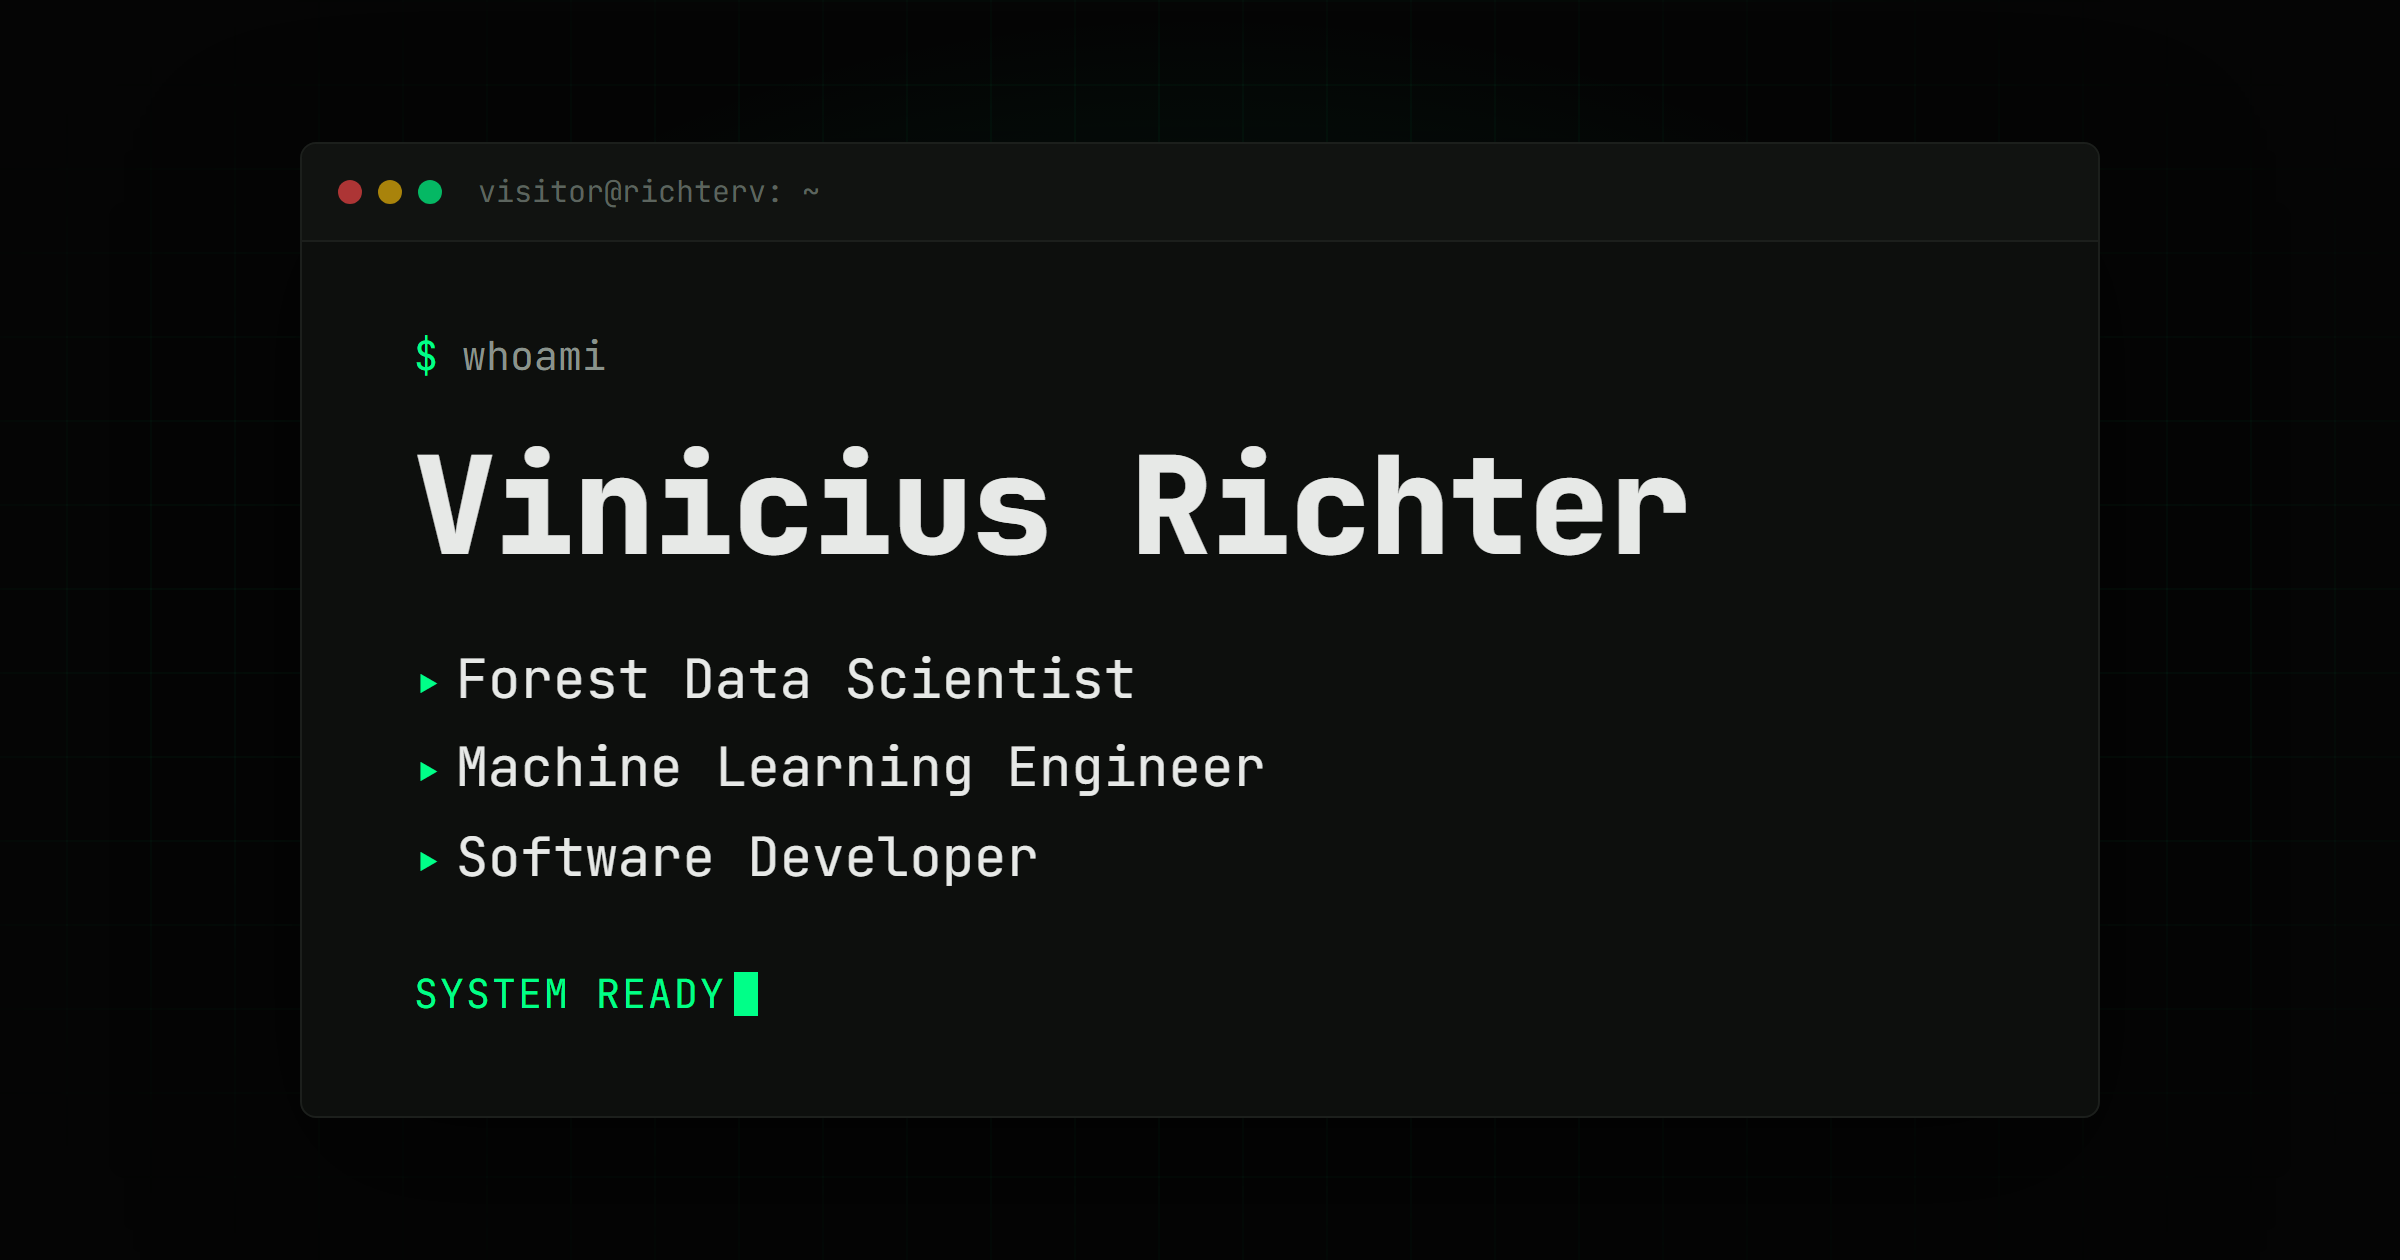
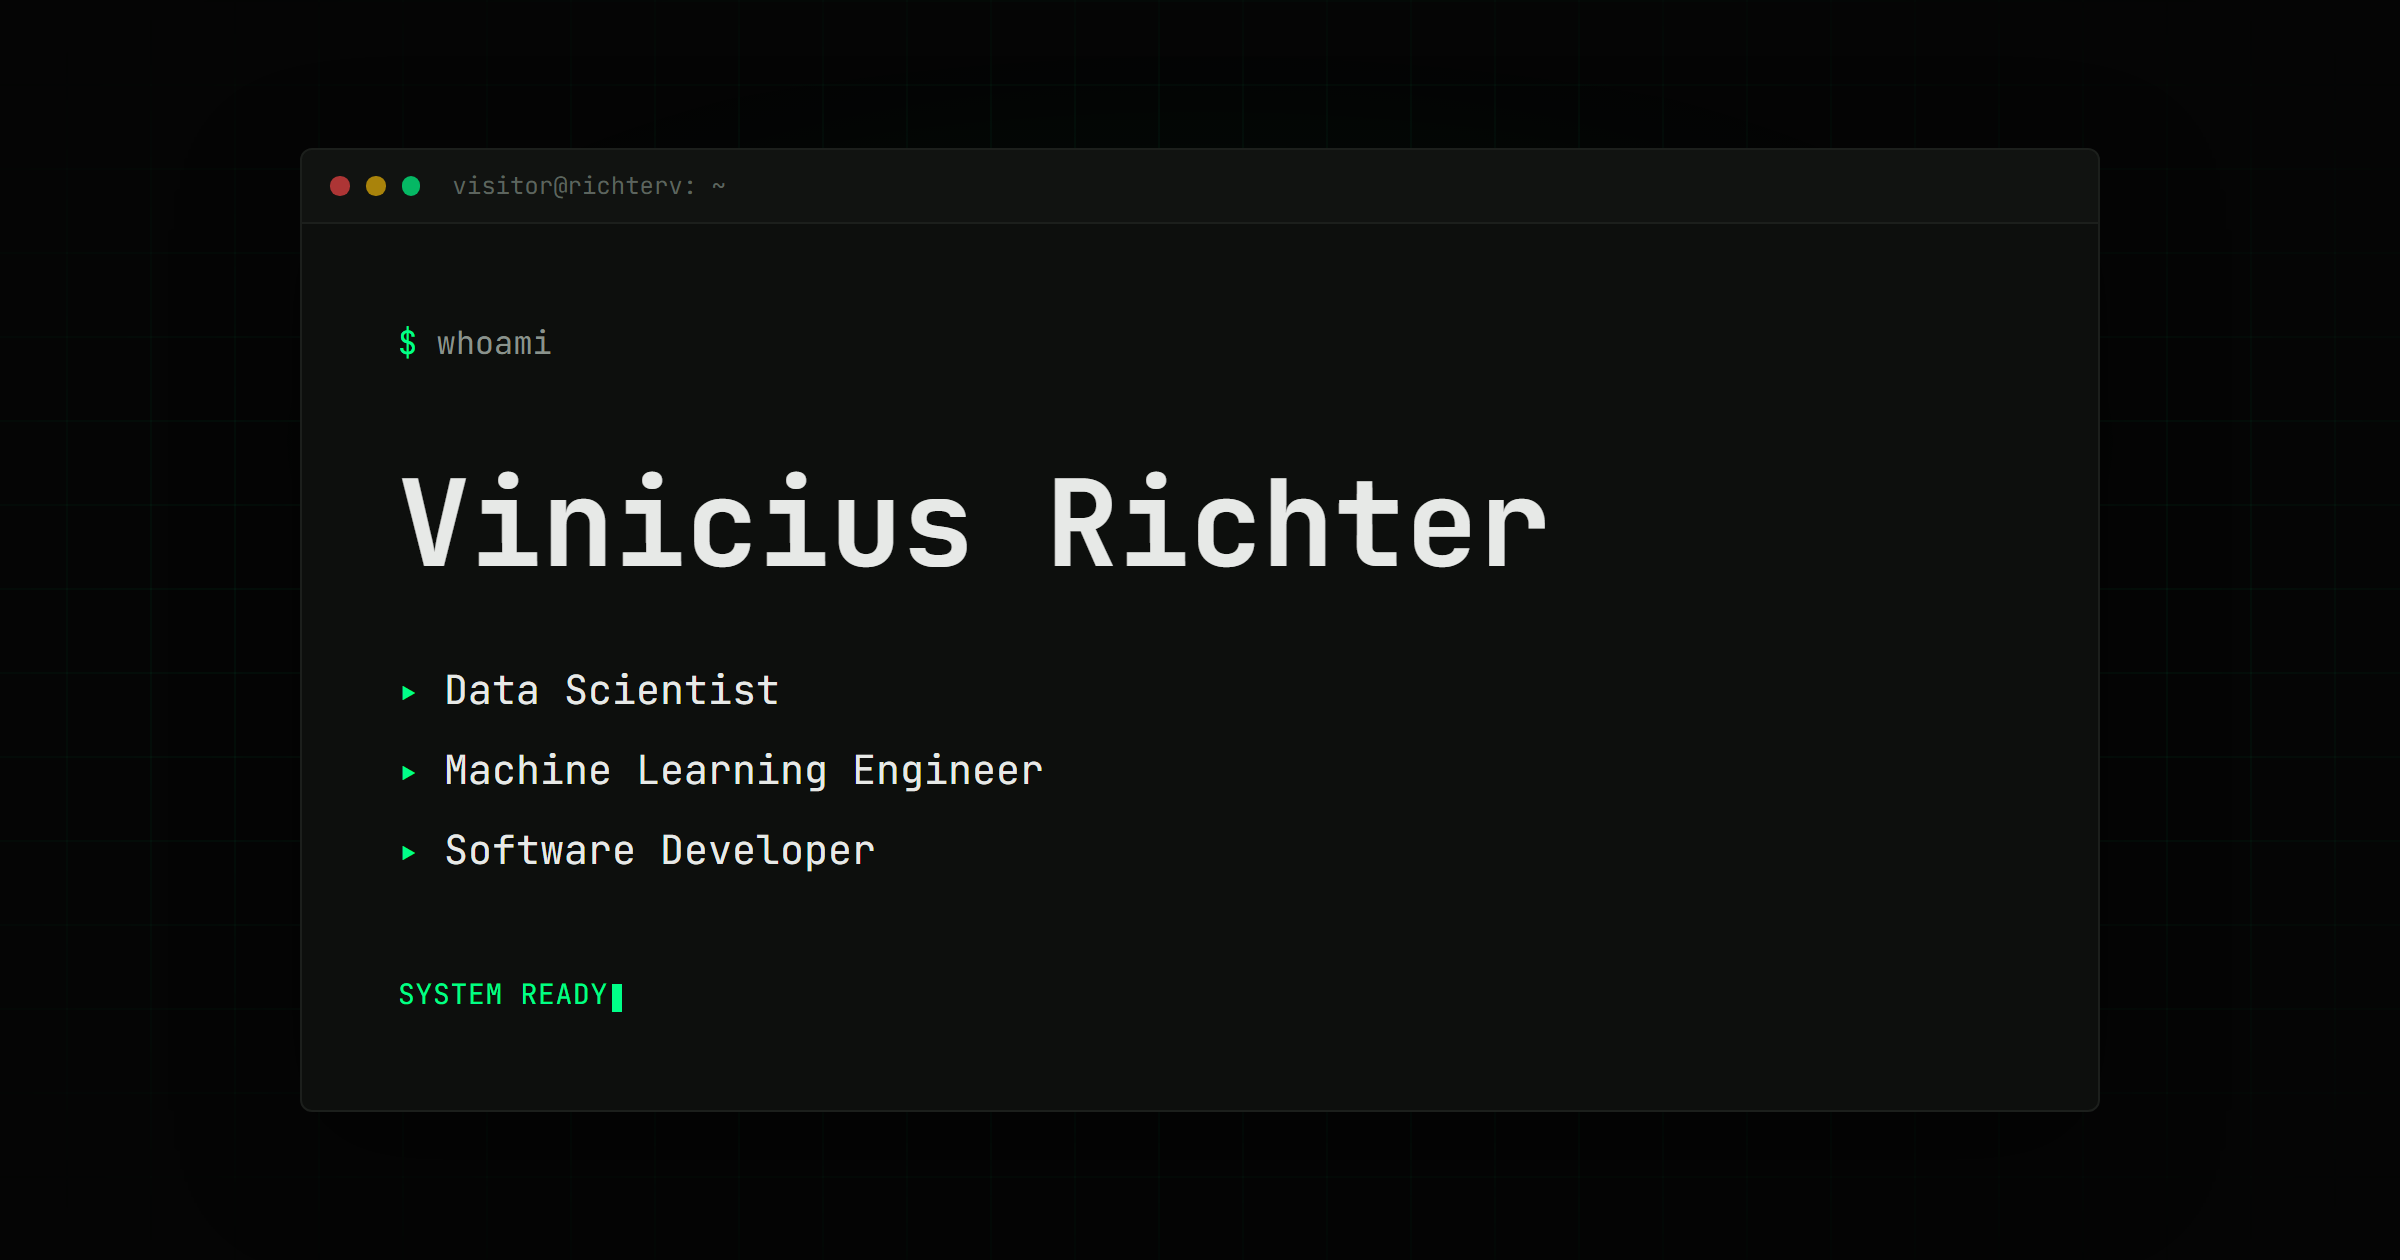
atualizações 2026-08-25

diff --git a/main.js b/main.js
@@ -75,7 +75,7 @@ function initProjectsCarousel() {
   const nextBtn = document.getElementById('projects-next');
   const dotsWrapper = document.getElementById('projects-dots-wrapper');
   const dotsContainer = document.getElementById('projects-dots');
-  if (!viewport || !track || !prevBtn || !nextBtn || !dotsWrapper || !dotsContainer) return;
+  if (!track || !prevBtn || !nextBtn || !dotsWrapper || !dotsContainer) return;
 
   const firstPage = track.firstElementChild;
   if (!firstPage) return;
@@ -92,7 +92,7 @@ function initProjectsCarousel() {
   track.innerHTML = '';
   pageGroups.forEach(group => {
     const pageDiv = document.createElement('div');
-    pageDiv.className = 'grid content-start grid-cols-1 md:grid-cols-2 lg:grid-cols-3 gap-6 w-full flex-shrink-0 px-2';
+    pageDiv.className = 'grid content-center grid-cols-1 md:grid-cols-2 lg:grid-cols-3 gap-6 w-full flex-shrink-0 px-2';
     group.forEach(card => pageDiv.appendChild(card));
     track.appendChild(pageDiv);
   });
@@ -113,20 +113,8 @@ function initProjectsCarousel() {
   const AUTOPLAY_DELAY = 4000;
   const SCROLL_IDLE_DELAY = 700;
 
-  // Cada página pode ter uma altura diferente (ex: última página com menos
-  // cards, ou grid de 1 coluna no mobile). Sem isso, o viewport ficava
-  // travado na altura da página mais alta e as páginas menores pareciam
-  // "vazias" ao navegar pelo carrossel.
-  function updatePageHeight() {
-    const activePage = track.children[currentPage];
-    if (activePage) {
-      viewport.style.height = `${activePage.offsetHeight}px`;
-    }
-  }
-
   function updateUI() {
     track.style.transform = `translateX(-${currentPage * 100}%)`;
-    updatePageHeight();
     Array.from(dotsContainer.children).forEach((dot, idx) => {
       dot.classList.toggle('bg-term-green', idx === currentPage);
       dot.classList.toggle('bg-term-border', idx !== currentPage);
@@ -174,6 +162,38 @@ function initProjectsCarousel() {
   prevBtn.addEventListener('click', () => goToPage(currentPage - 1));
   nextBtn.addEventListener('click', () => goToPage(currentPage + 1));
 
+  // Arrastar (swipe) no mobile faz o mesmo que os botões prev/next.
+  if (viewport) {
+    const SWIPE_THRESHOLD = 40;
+    let touchStartX = 0;
+    let touchStartY = 0;
+    let touchDeltaX = 0;
+    let touchDeltaY = 0;
+
+    viewport.addEventListener('touchstart', (e) => {
+      const touch = e.touches[0];
+      touchStartX = touch.clientX;
+      touchStartY = touch.clientY;
+      touchDeltaX = 0;
+      touchDeltaY = 0;
+      stopAutoplay();
+      cancelScheduledAutoplay();
+    }, { passive: true });
+
+    viewport.addEventListener('touchmove', (e) => {
+      const touch = e.touches[0];
+      touchDeltaX = touch.clientX - touchStartX;
+      touchDeltaY = touch.clientY - touchStartY;
+    }, { passive: true });
+
+    viewport.addEventListener('touchend', () => {
+      if (Math.abs(touchDeltaX) > SWIPE_THRESHOLD && Math.abs(touchDeltaX) > Math.abs(touchDeltaY)) {
+        goToPage(touchDeltaX < 0 ? currentPage + 1 : currentPage - 1);
+      }
+      if (sectionInView) scheduleAutoplayStart();
+    });
+  }
+
   track.querySelectorAll('.card-hover').forEach(card => {
     card.addEventListener('mouseenter', stopAutoplay);
     card.addEventListener('mouseleave', startAutoplay);
@@ -216,23 +236,17 @@ function initProjectsCarousel() {
 
   updateUI();
 
-  // Recalcula a altura da página ativa quando o layout muda de coluna
-  // (ex: rotação de tela ou redimensionamento da janela).
-  window.addEventListener('resize', updatePageHeight);
-
   // Só inicia o autoplay quando o usuário parar de rolar dentro da seção de
   // projetos, e sempre volta para a primeira página ao entrar/sair dela.
   // Assim, ao rolar rapidamente até "projects", o usuário sempre vê os
   // 6 projetos da primeira página em vez de cair em uma página intermediária.
   if (projectsSection) {
-    // Só reseta a página ao cruzar a fronteira de entrar/sair da seção.
-    // Sem isso, o próprio redimensionamento do carrossel (updatePageHeight)
-    // pode reacionar o observer enquanto a seção continua visível, forçando
-    // a página de volta pra 1 logo após o usuário clicar em "next".
+    // Só reseta a página ao cruzar a fronteira de entrar/sair da seção
+    // (evita resets redundantes se o observer disparar mais de uma vez
+    // seguida com o mesmo estado).
     let wasInView = false;
     const sectionObserver = new IntersectionObserver((entries) => {
       entries.forEach(entry => {
-        console.log('DEBUG observer', entry.isIntersecting, entry.intersectionRatio, entry.boundingClientRect.top, entry.boundingClientRect.height);
         if (entry.isIntersecting) {
           sectionInView = true;
           if (!wasInView) resetToFirstPage();

diff --git a/cartao_visita.html b/cartao_visita.html
@@ -1,0 +1,88 @@
+<!DOCTYPE html>
+<html lang="pt-br">
+<head>
+<meta charset="UTF-8">
+<title>cartao_visita source (OG image mockup PT-BR)</title>
+<!--
+  Fonte editável de assets/images/cartao_visita.png.
+  Para gerar a imagem: abra este arquivo num browser headless (Playwright)
+  com viewport 1200x630 e deviceScaleFactor 2, e tire um screenshot.
+  Reutiliza as mesmas classes/paleta de style.css (term-window, term-dot, etc).
+-->
+<link rel="preconnect" href="https://fonts.googleapis.com">
+<link rel="preconnect" href="https://fonts.gstatic.com" crossorigin>
+<link href="https://fonts.googleapis.com/css2?family=JetBrains+Mono:wght@400;500;600;700;800&display=swap" rel="stylesheet">
+<script src="https://cdn.tailwindcss.com"></script>
+<script>
+  tailwind.config = {
+    theme: {
+      extend: {
+        colors: {
+          term: {
+            bg: '#050505', bg2: '#0a0a0a', panel: '#0d0f0d',
+            border: '#1c1f1c', border2: '#2a2f2a',
+            green: '#00ff88', dim: '#00cc6d',
+            text: '#e7e9e7', muted: '#8a938c', faint: '#5c645e',
+          },
+        },
+        fontFamily: {
+          mono: ['"JetBrains Mono"', '"Fira Code"', 'ui-monospace', 'SFMono-Regular', 'Menlo', 'Consolas', 'monospace'],
+        },
+      },
+    },
+  };
+</script>
+<link rel="stylesheet" href="style.css">
+<style>
+  html, body { margin: 0; padding: 0; }
+  body {
+    width: 1200px;
+    height: 630px;
+    overflow: hidden;
+    display: flex;
+    align-items: center;
+    justify-content: center;
+    position: relative;
+  }
+  .canvas-grid {
+    position: absolute;
+    inset: 0;
+  }
+  .term-cursor { animation: none !important; opacity: 1 !important; }
+  .boot-fade { opacity: 1 !important; transform: none !important; animation: none !important; }
+  .term-typed-whoami { width: 6ch !important; animation: none !important; }
+</style>
+</head>
+<body class="font-mono bg-term-bg text-term-text">
+  <div class="canvas-grid term-grid-bg term-hero-glow"></div>
+  <div class="relative z-10" style="width: 900px;">
+    <div class="term-window">
+      <div class="term-titlebar">
+        <span class="term-dot bg-red-500/70"></span>
+        <span class="term-dot bg-yellow-500/70"></span>
+        <span class="term-dot bg-term-green/70"></span>
+        <span class="ml-2 text-xs text-term-faint font-mono truncate" id="titlebar-text">visitante@richterv: ~</span>
+      </div>
+      <div class="p-12">
+        <p class="font-mono text-base text-term-muted mb-10">
+          <span class="text-term-green">$</span> <span class="term-typed-whoami">whoami</span>
+        </p>
+
+        <h1 class="boot-fade d2 font-mono text-6xl font-bold text-term-text mb-8 leading-tight" id="name">
+          Vinicius Richter
+        </h1>
+
+        <div class="boot-fade d3 font-mono text-xl text-term-text mb-12 space-y-3" id="roles">
+          <p><span class="text-term-green">▸</span> Cientista de Dados</p>
+          <p><span class="text-term-green">▸</span> Engenheiro de Machine Learning</p>
+          <p><span class="text-term-green">▸</span> Desenvolvedor de Software</p>
+        </div>
+
+        <p class="boot-fade d5 font-mono text-sm text-term-green tracking-wide" id="ready-line">
+          SISTEMA PRONTO<span class="term-cursor"></span>
+        </p>
+      </div>
+    </div>
+  </div>
+</body>
+</html>

diff --git a/card_preview.html b/card_preview.html
@@ -1,0 +1,88 @@
+<!DOCTYPE html>
+<html lang="en">
+<head>
+<meta charset="UTF-8">
+<title>card_preview source (OG image mockup)</title>
+<!--
+  Fonte editável de assets/images/card_preview.png.
+  Para gerar a imagem: abra este arquivo num browser headless (Playwright)
+  com viewport 1200x630 e deviceScaleFactor 2, e tire um screenshot.
+  Reutiliza as mesmas classes/paleta de style.css (term-window, term-dot, etc).
+-->
+<link rel="preconnect" href="https://fonts.googleapis.com">
+<link rel="preconnect" href="https://fonts.gstatic.com" crossorigin>
+<link href="https://fonts.googleapis.com/css2?family=JetBrains+Mono:wght@400;500;600;700;800&display=swap" rel="stylesheet">
+<script src="https://cdn.tailwindcss.com"></script>
+<script>
+  tailwind.config = {
+    theme: {
+      extend: {
+        colors: {
+          term: {
+            bg: '#050505', bg2: '#0a0a0a', panel: '#0d0f0d',
+            border: '#1c1f1c', border2: '#2a2f2a',
+            green: '#00ff88', dim: '#00cc6d',
+            text: '#e7e9e7', muted: '#8a938c', faint: '#5c645e',
+          },
+        },
+        fontFamily: {
+          mono: ['"JetBrains Mono"', '"Fira Code"', 'ui-monospace', 'SFMono-Regular', 'Menlo', 'Consolas', 'monospace'],
+        },
+      },
+    },
+  };
+</script>
+<link rel="stylesheet" href="style.css">
+<style>
+  html, body { margin: 0; padding: 0; }
+  body {
+    width: 1200px;
+    height: 630px;
+    overflow: hidden;
+    display: flex;
+    align-items: center;
+    justify-content: center;
+    position: relative;
+  }
+  .canvas-grid {
+    position: absolute;
+    inset: 0;
+  }
+  .term-cursor { animation: none !important; opacity: 1 !important; }
+  .boot-fade { opacity: 1 !important; transform: none !important; animation: none !important; }
+  .term-typed-whoami { width: 6ch !important; animation: none !important; }
+</style>
+</head>
+<body class="font-mono bg-term-bg text-term-text">
+  <div class="canvas-grid term-grid-bg term-hero-glow"></div>
+  <div class="relative z-10" style="width: 900px;">
+    <div class="term-window">
+      <div class="term-titlebar">
+        <span class="term-dot bg-red-500/70"></span>
+        <span class="term-dot bg-yellow-500/70"></span>
+        <span class="term-dot bg-term-green/70"></span>
+        <span class="ml-2 text-xs text-term-faint font-mono truncate" id="titlebar-text">visitor@richterv: ~</span>
+      </div>
+      <div class="p-12">
+        <p class="font-mono text-base text-term-muted mb-10">
+          <span class="text-term-green">$</span> <span class="term-typed-whoami">whoami</span>
+        </p>
+
+        <h1 class="boot-fade d2 font-mono text-6xl font-bold text-term-text mb-8 leading-tight" id="name">
+          Vinicius Richter
+        </h1>
+
+        <div class="boot-fade d3 font-mono text-xl text-term-text mb-12 space-y-3" id="roles">
+          <p><span class="text-term-green">▸</span> Data Scientist</p>
+          <p><span class="text-term-green">▸</span> Machine Learning Engineer</p>
+          <p><span class="text-term-green">▸</span> Software Developer</p>
+        </div>
+
+        <p class="boot-fade d5 font-mono text-sm text-term-green tracking-wide" id="ready-line">
+          SYSTEM READY<span class="term-cursor"></span>
+        </p>
+      </div>
+    </div>
+  </div>
+</body>
+</html>

diff --git a/projects.html b/projects.html
@@ -15,8 +15,8 @@
         </div>
 
         <div class="relative">
-            <div id="projects-viewport" class="overflow-x-hidden overflow-y-hidden">
-                <div id="projects-track" class="flex items-start transition-transform duration-500 ease-in-out">
+            <div id="projects-viewport" class="overflow-x-hidden overflow-y-visible">
+                <div id="projects-track" class="flex transition-transform duration-500 ease-in-out">
                     <div class="grid grid-cols-1 md:grid-cols-2 lg:grid-cols-3 gap-6 w-full flex-shrink-0 px-2">
                         <!-- Project 1 -->
                         <div class="card-hover bg-term-panel border border-term-border rounded-md flex flex-col h-full overflow-hidden">

diff --git a/pt-br/hero.html b/pt-br/hero.html
@@ -17,7 +17,7 @@
                 </h1>
 
                 <div class="boot-fade d3 font-mono text-base md:text-xl text-term-text mb-10 space-y-2">
-                    <p><span class="text-term-green">▸</span> Cientista de Dados Florestais</p>
+                    <p><span class="text-term-green">▸</span> Cientista de Dados</p>
                     <p><span class="text-term-green">▸</span> Engenheiro de Machine Learning</p>
                     <p><span class="text-term-green">▸</span> Desenvolvedor de Software</p>
                 </div>

diff --git a/hero.html b/hero.html
@@ -17,7 +17,7 @@
                 </h1>
 
                 <div class="boot-fade d3 font-mono text-base md:text-xl text-term-text mb-10 space-y-2">
-                    <p><span class="text-term-green">▸</span> Forest Data Scientist</p>
+                    <p><span class="text-term-green">▸</span> Data Scientist</p>
                     <p><span class="text-term-green">▸</span> Machine Learning Engineer</p>
                     <p><span class="text-term-green">▸</span> Software Developer</p>
                 </div>

diff --git a/pt-br/index.html b/pt-br/index.html
@@ -71,7 +71,7 @@
     <!-- Seção Educação -->
     <div id="education"></div>
     <!-- Seção Projetos -->
-    <div id="projects"></div>
+    <div id="projects-container"></div>
     <!-- Seção Pesquisa -->
     <div id="research"></div>
     <!-- Seção Tecnologias -->
